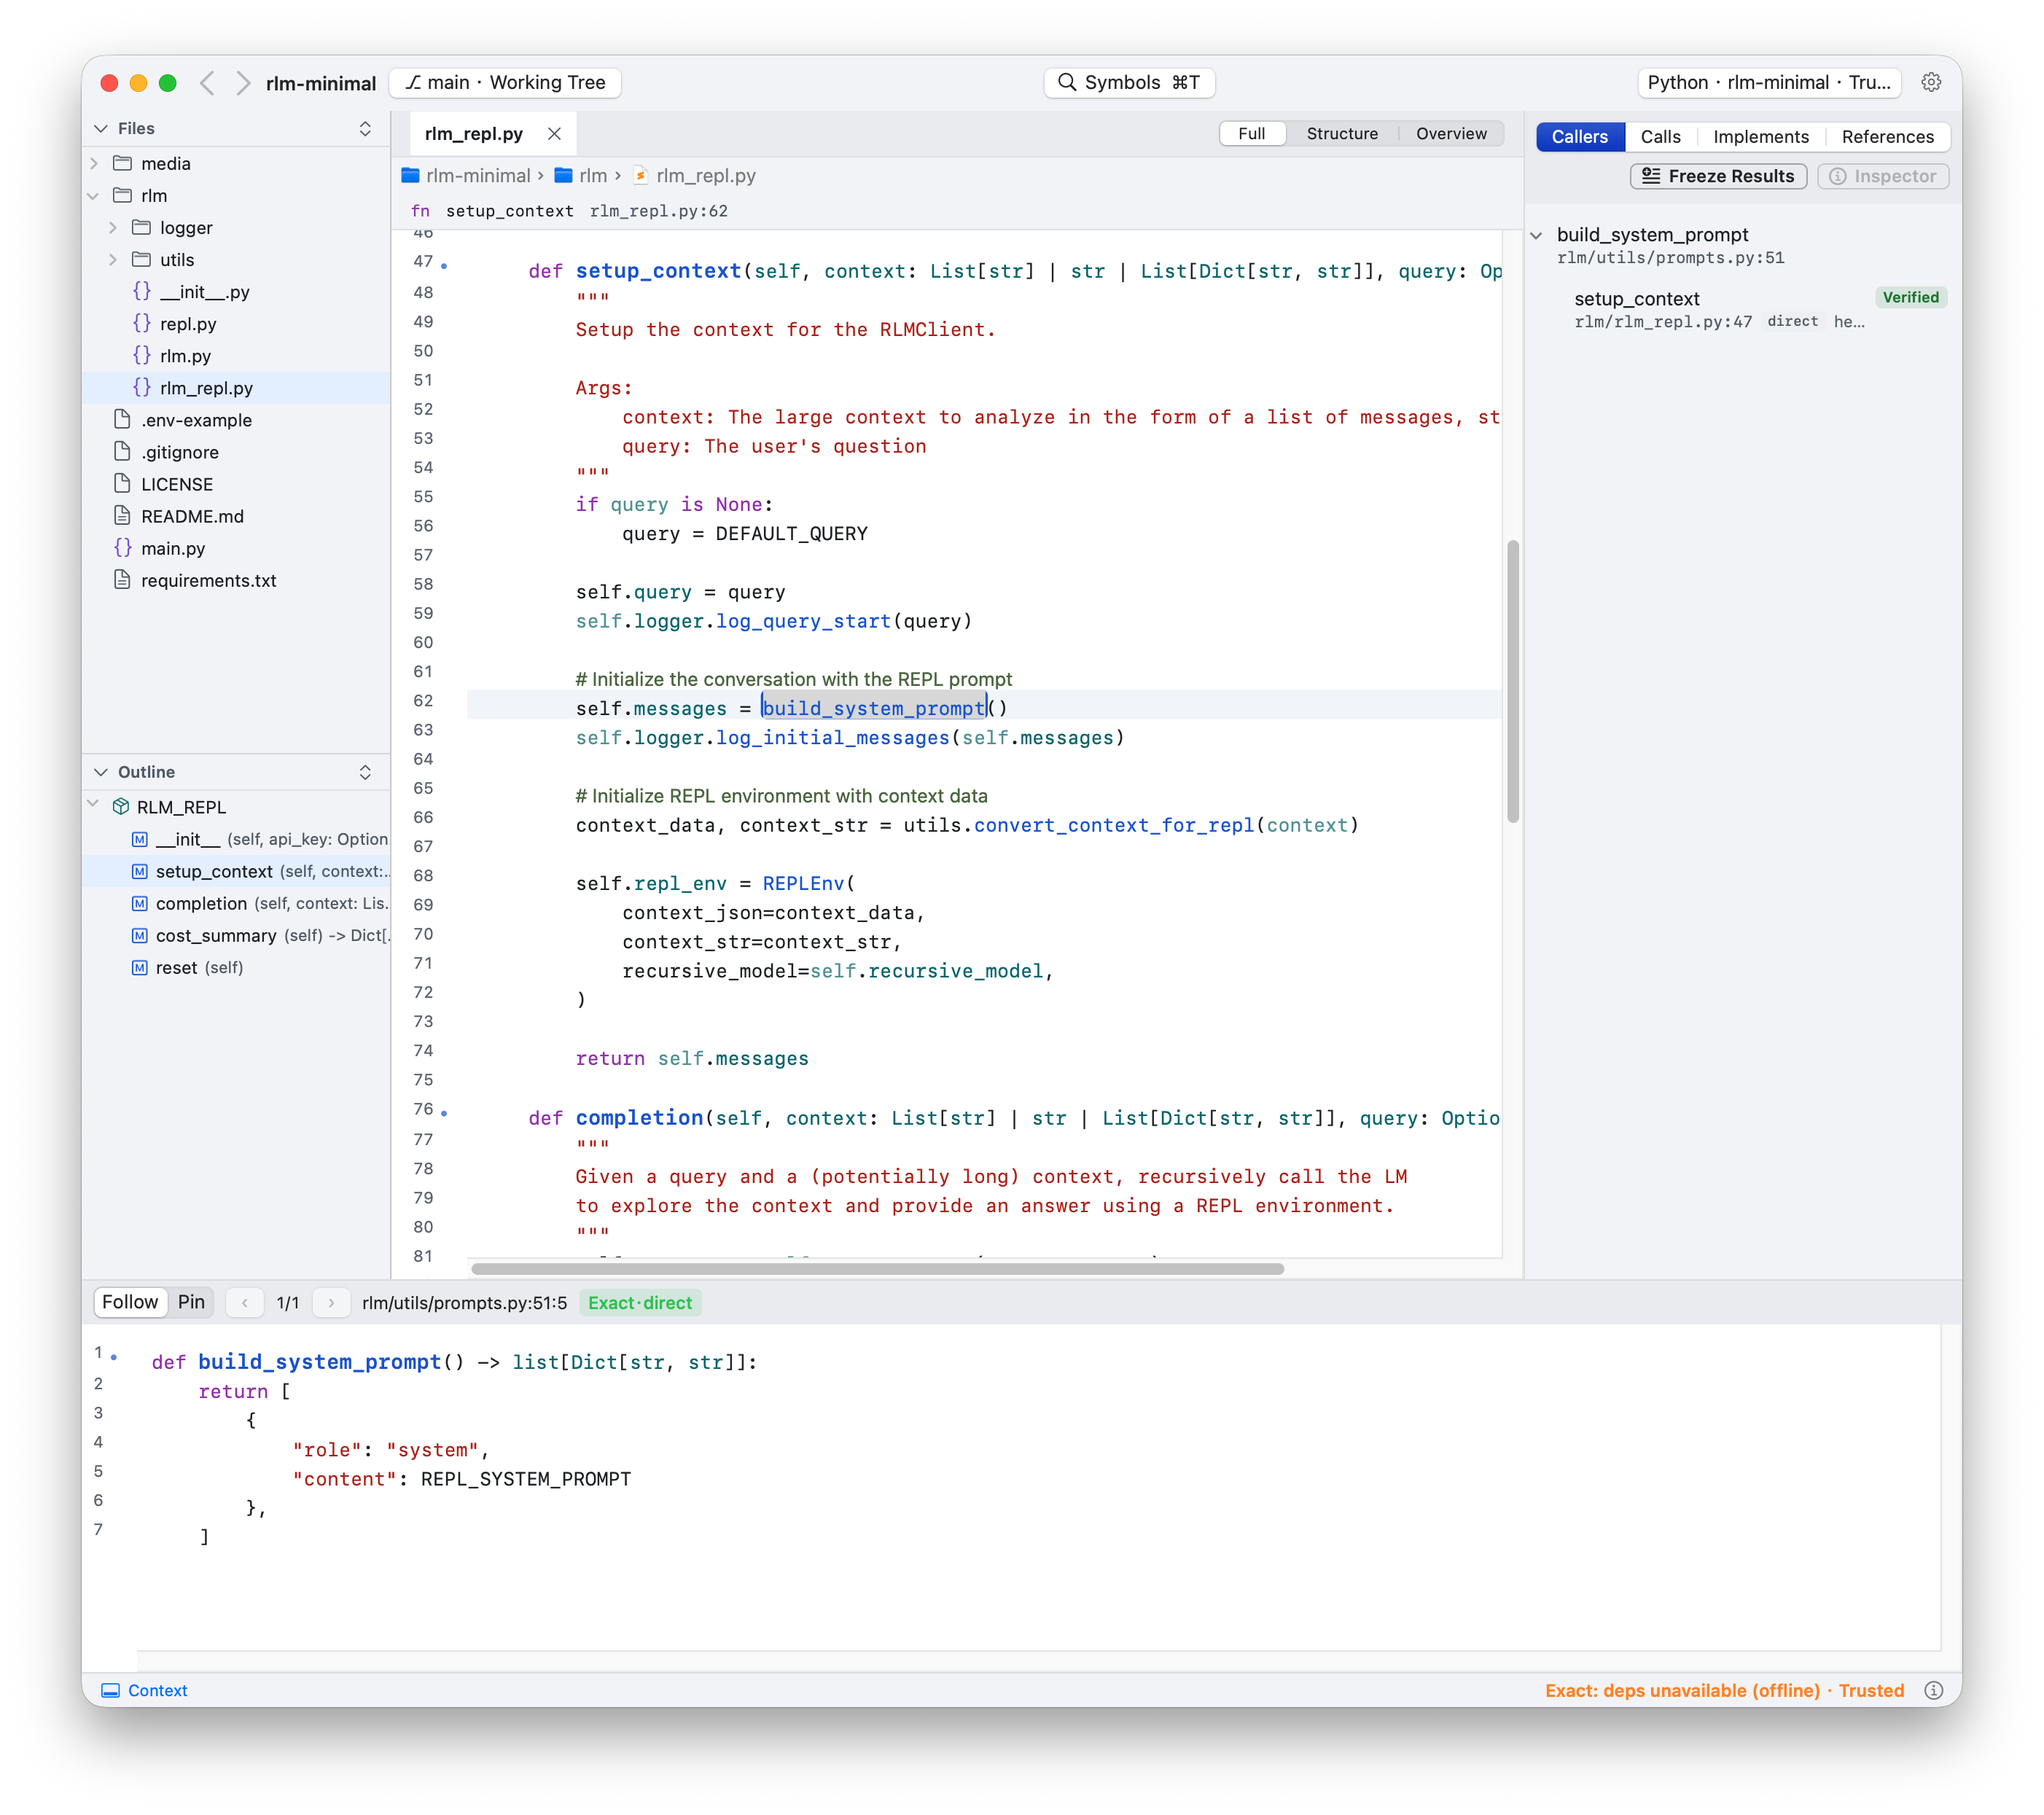
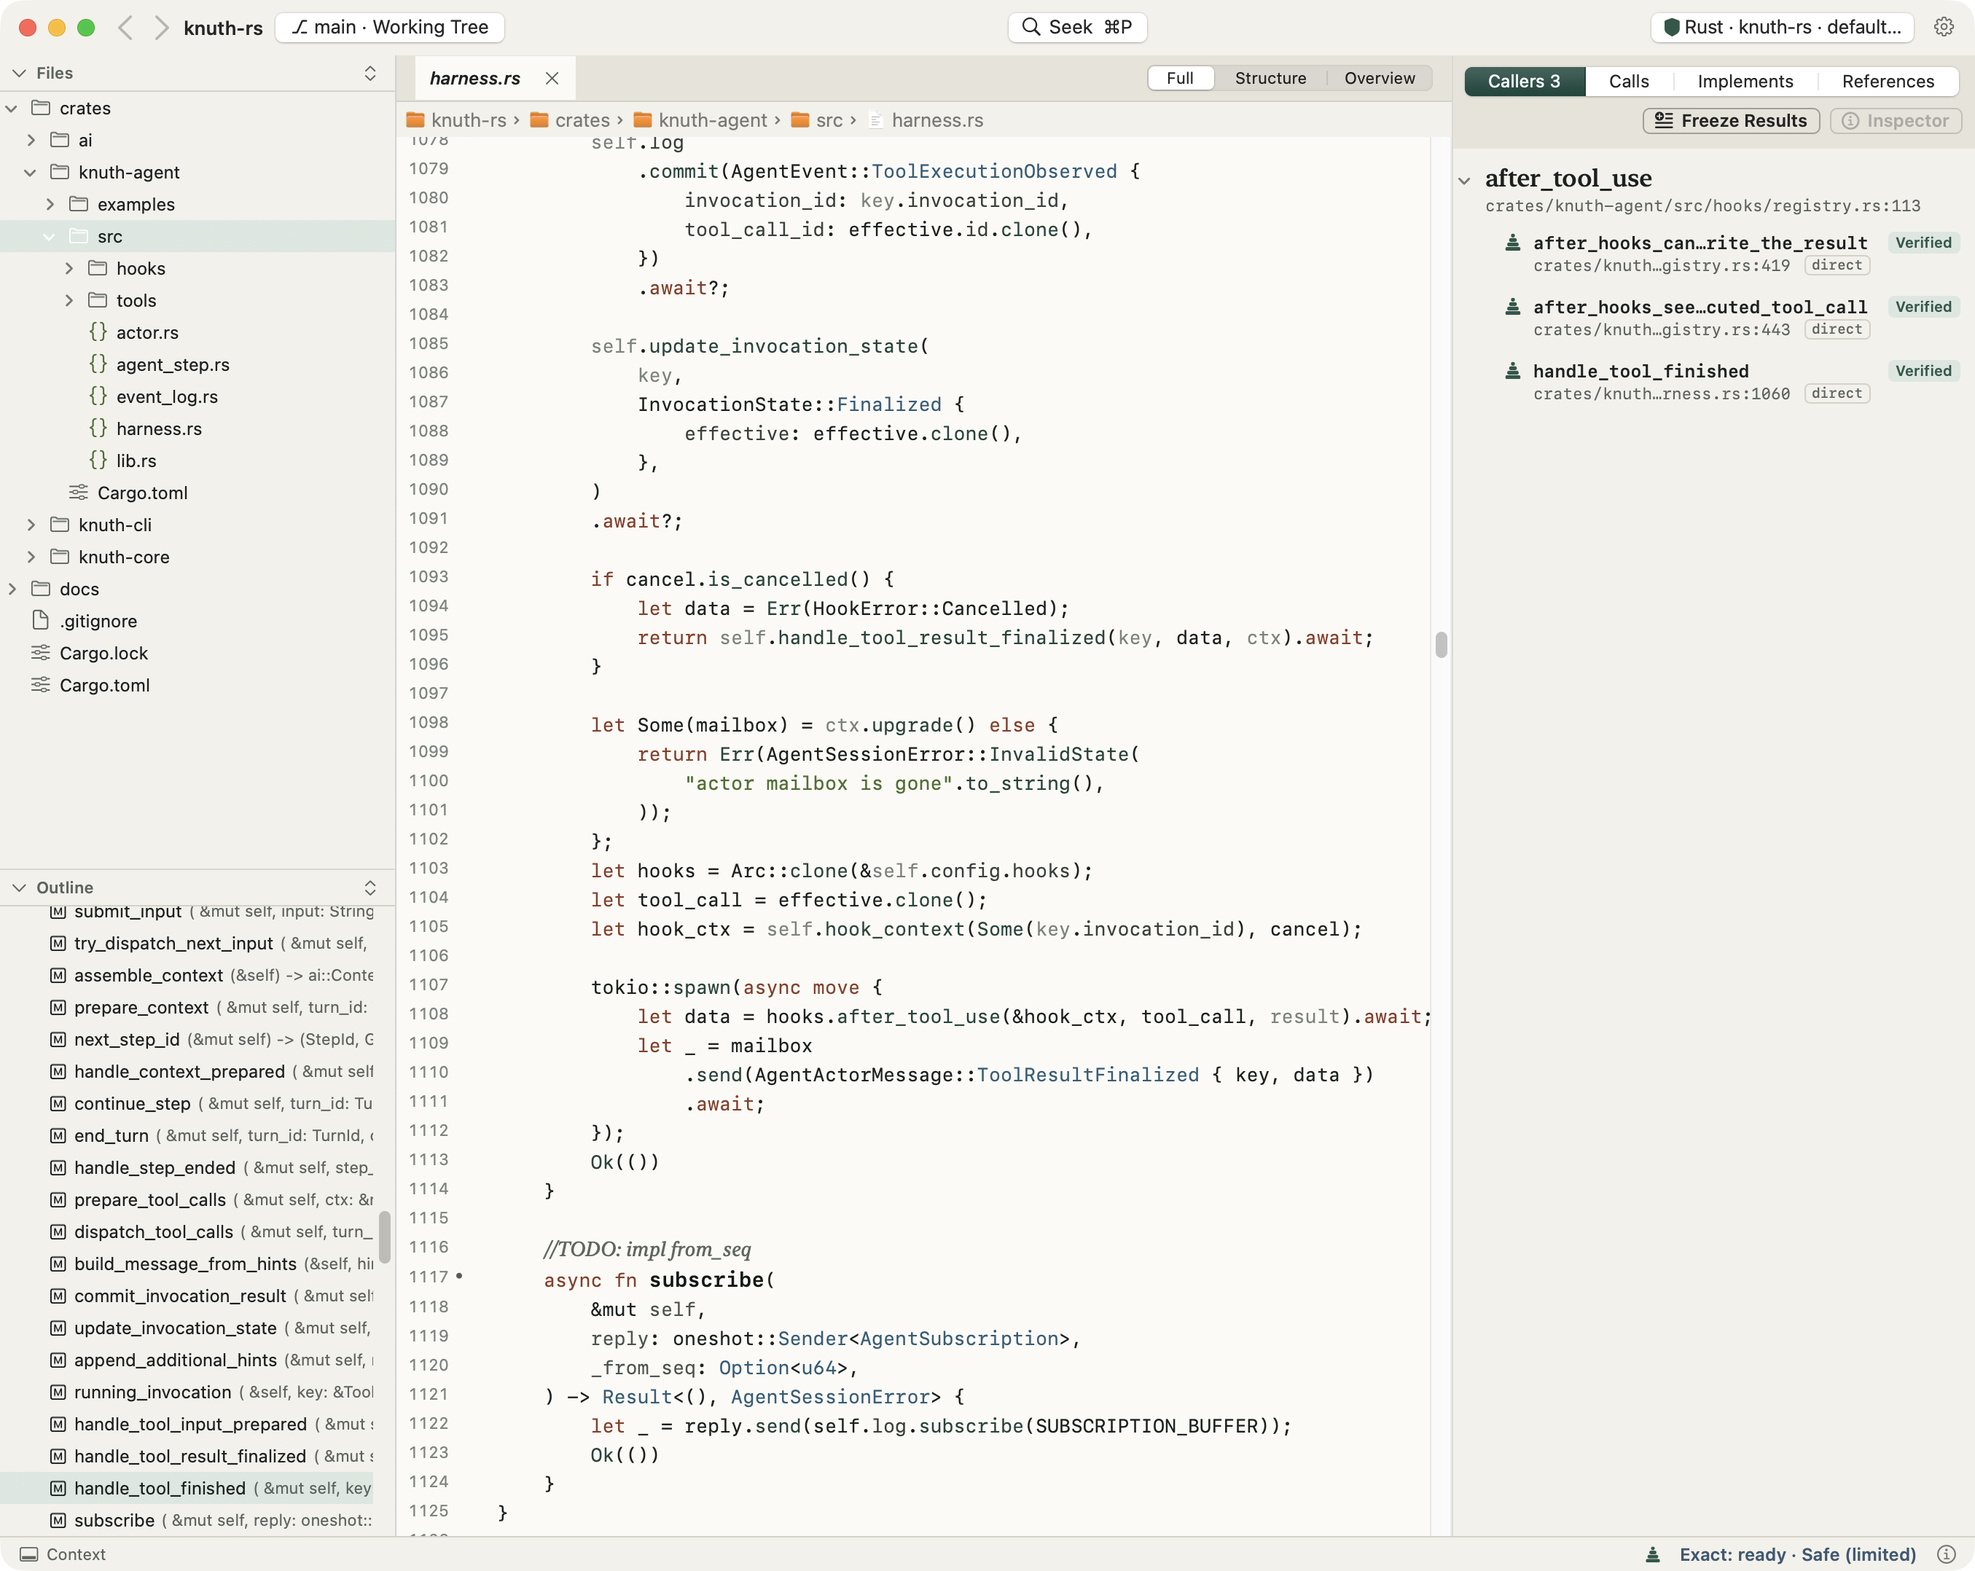
docs(site): replace homepage screenshot with knuth-rs reader

diff --git a/site/index.html b/site/index.html
@@ -84,9 +84,9 @@
 
         <figure class="shot">
           <a href="./assets/reader.png" aria-label="View full-size Cairn application screenshot">
-            <img src="./assets/reader.png" width="2804" height="2490" fetchpriority="high" alt="Cairn’s native macOS reader showing Python source with Files, Outline, Callers, and Context panels.">
+            <img src="./assets/reader.png" width="2710" height="2156" fetchpriority="high" alt="Cairn’s native macOS reader showing Rust source from knuth-rs, with Files, Outline and three Verified callers of after_tool_use.">
           </a>
-          <figcaption><span>Fig. 1 — Reading <code>rlm_repl.py</code>: callers on the right, the definition below.</span><span>Native AppKit · Swift 6</span></figcaption>
+          <figcaption><span>Fig. 1 — Reading <code>harness.rs</code> in knuth-rs: every caller of <code>after_tool_use</code>, verified.</span><span>Native AppKit · Swift 6</span></figcaption>
         </figure>
       </main>
     </div>

diff --git a/site/README.md b/site/README.md
@@ -21,3 +21,5 @@ Workflow configuration follows [GitHub's Pages documentation](https://docs.githu
 ## Demo data
 
 The interactive reader and snapshot timeline use real results from [sonald/knuth-rs](https://github.com/sonald/knuth-rs) at `fac975a`: callers, resolutions and certainty from `codeinsight callers`/`resolve`, Exact targets from `codeinsight exact-def` (rust-analyzer, Safe mode), and the `HookContext` history from `git show <commit>:crates/knuth-agent/src/hooks/types.rs`. Re-run those commands against a clean checkout of that commit when updating the data.
+
+The screenshot (`assets/reader.png`) shows the packaged app reading a clean clone of knuth-rs at `fac975a` (`crates/knuth-agent/src/harness.rs`, Callers of `after_tool_use`), captured with the Light theme and English UI via launch arguments: `open -a Cairn.app <clone> --args -AppleLanguages '(en)' -reader.theme Light`, then `screencapture -o -l <window-id>` (no window shadow; the page adds its own).

diff --git a/README.md b/README.md
@@ -17,7 +17,7 @@ CodeInsight is a native, read-only code reader for macOS, released as **Cairn**.
 
 This is not an editor. Cairn does not save files, run builds, or modify your working tree; it makes evidence and uncertainty in the reading workflow explicit.
 
-![Cairn reading Python source with Files, Outline, Callers, and Context panels](site/assets/reader.png)
+![Cairn reading Rust source from knuth-rs with Files, Outline, and Callers panels](site/assets/reader.png)
 
 ## Features
 
